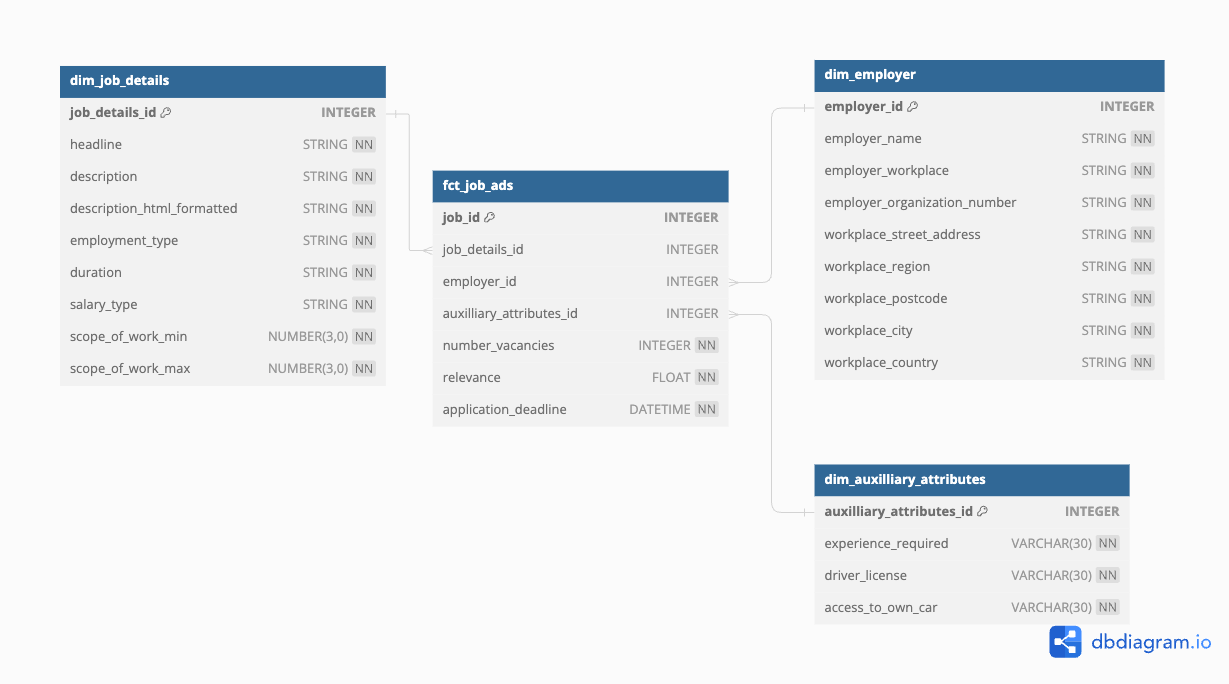
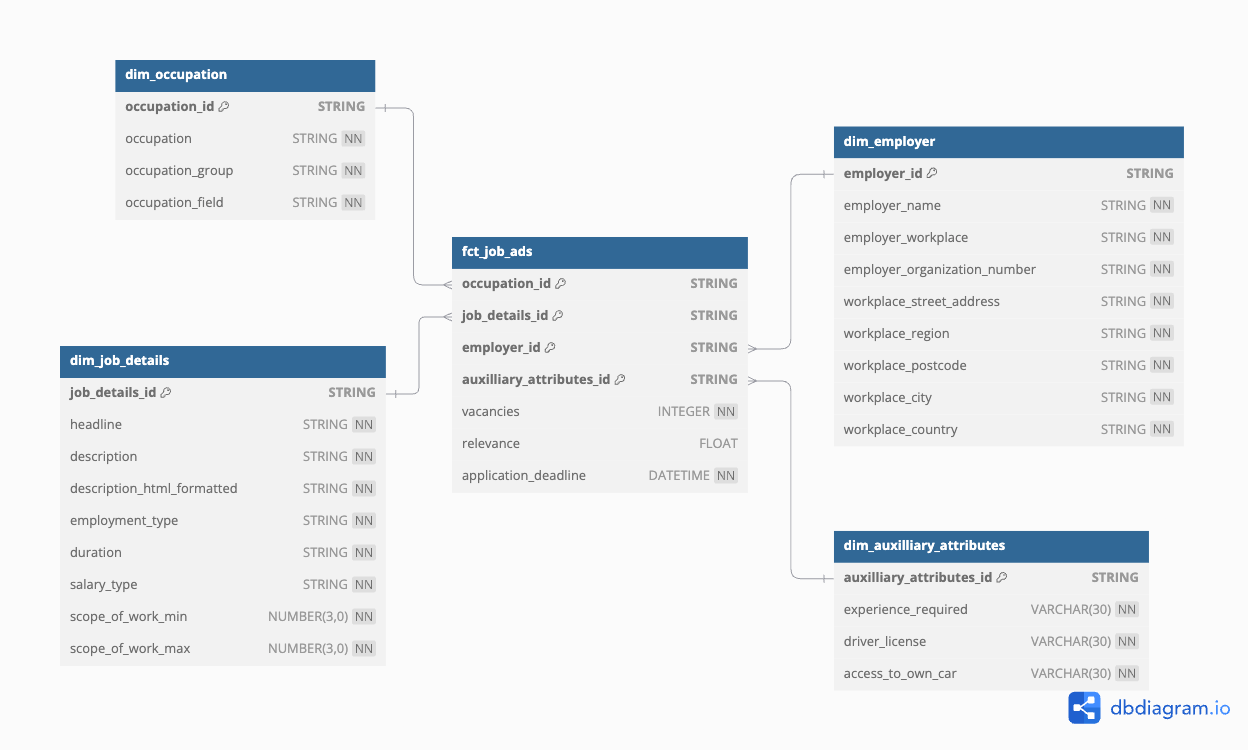
update dbt models

diff --git a/11_dbt_modeling/dlt_code/load_job_ads.py b/11_dbt_modeling/dlt_code/load_job_ads.py
@@ -1,0 +1,49 @@
+#========================================#
+#                                        #
+#    This script loads job ads for       #
+#    "Yrken med teknisk inriktning"      #
+#                                        #
+#========================================#
+
+
+import dlt
+import requests
+import json
+from pathlib import Path
+import os
+
+def _get_ads(url_for_search, params):
+    headers = {"accept": "application/json"}
+    response = requests.get(url_for_search, headers=headers, params=params)
+    response.raise_for_status()  # check for http errors
+    return json.loads(response.content.decode("utf8"))
+
+
+@dlt.resource(write_disposition="replace")
+def jobsearch_resource(params):
+
+    url = "https://jobsearch.api.jobtechdev.se"
+    url_for_search = f"{url}/search"
+
+    for ad in _get_ads(url_for_search, params)["hits"]:
+        yield ad
+
+
+def run_pipeline(table_name):
+    pipeline = dlt.pipeline(
+        pipeline_name="jobsearch",
+        destination="snowflake",
+        dataset_name="staging",
+    )
+
+    params = {"limit": 100, "occupation-field": "6Hq3_tKo_V57"}
+
+    load_info = pipeline.run(jobsearch_resource(params=params), table_name=table_name)
+    print(load_info)
+
+
+if __name__ == "__main__":
+    working_directory = Path(__file__).parent
+    os.chdir(working_directory)
+
+    run_pipeline(table_name="technical_field_job_ads")

diff --git a/07_extract_load_api_dlt/dlt_code/load_job_ads.py b/07_extract_load_api_dlt/dlt_code/load_job_ads.py
@@ -1,3 +1,11 @@
+#========================================#
+#                                        #
+#    This script loads job ads with      #
+#    the keyword "data engineer"         #
+#                                        #
+#========================================#
+
+
 import dlt
 import requests
 import json

diff --git a/11_dbt_modeling/README.md b/11_dbt_modeling/README.md
@@ -1,4 +1,6 @@
-# dbt transformations
+# Data transformation with dbt - a more realistic example
+In this lecture, we will transform data with dbt according to a dimensional model which is usually provided to the data engineer team as the blueprint of coding dbt models. 
+
 
 Video on dbt theory to transform data :point_down:
 
@@ -14,36 +16,39 @@ Video on dbt coding to transform data part 3 :point_down:
 [![dbt transformations part 3](https://github.com/kokchun/assets/blob/main/data_warehouse/dbt_transformations_part3_video.png?raw=true)](https://youtu.be/z0G3KoDryww)
 
 
+## Scenario
+Imagine you are a data engineer for a HR agency. Here's an overview of the business model of this agency: <br>
 
+Talent acquisition specialists work with different occupation fields. According to the opening job ads on Arbetsförmedlingen, they will: 
+  - search and contact potential candidates from LinkedIn
+  - contact and market those potential candidates to corresponding employers <BR>
+
+Therefore, they constantly analyze job ads in order to understand which types of candidates they should approach. Currently, every begining of the week, they manually browse the homepage of Arbetsförmedlingen and download a list of opening job ads to guide their work over the week. However, they are not able to draw insights from these job ads as: 
+  - the information are messy 
+  - they have spent too much time to manually collect and clean data so that they do not have much time to analyze the data, which is important to improve the efficiency of their work <BR>
+
+Now, you are given a task to create a data pipeline for the team of talent acquisition specialists to: 
+  - automate the data extraction from Jobtech API of Arbetsförmedlingen
+  - transform and structure data according to a dimensional model
+  - design a dashboard for talent acquisition specialists to analyse numbers of vacancies by city, by occupation and by employment types etc, for each of the occupation fields
+
+## Data model
 
 Based on our previous dimensional models on the job ads we'll transform the data from staging layer to the warehouse layer. This will be our source of truth, that later will serve the data marts layer, which then in turn serves BI dashboards. We will base our modeling on the ER diagram of a star schema created in `dimension_modeling` lecture.
 
 > [!NOTE]
-> I haven't implemented the full dimensional model. The rest is intended for you to implement, so  I have intentionally left it out.
+> I haven't implemented the full dimensional model. The rest is intended for you to implement, so I have intentionally left it out.
 
 ## Setup
 
-Start by removing the example directory in your models directory and create the following directories
+### dlt
+The script, *load_job_ads.py* loads job ads with a specific occupation field to a Snowflake database. Note that this script only loads job ads for ONE occupation field
 
-- src
-- fct
-- dim
-- mart
+### dbt utils
+Then run `dbt deps` to install the dependencies specified in packages.yml
 
-You can use the terminal
-
-```bash
-cd models
-mkdir src fct dim mart
-cd ..
-```
-
-Also create a schema.yml file under models and sources.yml under src.
-
-```bash
-touch models/schema.yml
-touch src/sources.yml
-```
+### dbt models
+Now you can run all dbt models and check if the resulting data in Snowflake. Note that only an extract of models are provided in this repo
 
 
 ## Other videos :video_camera:
